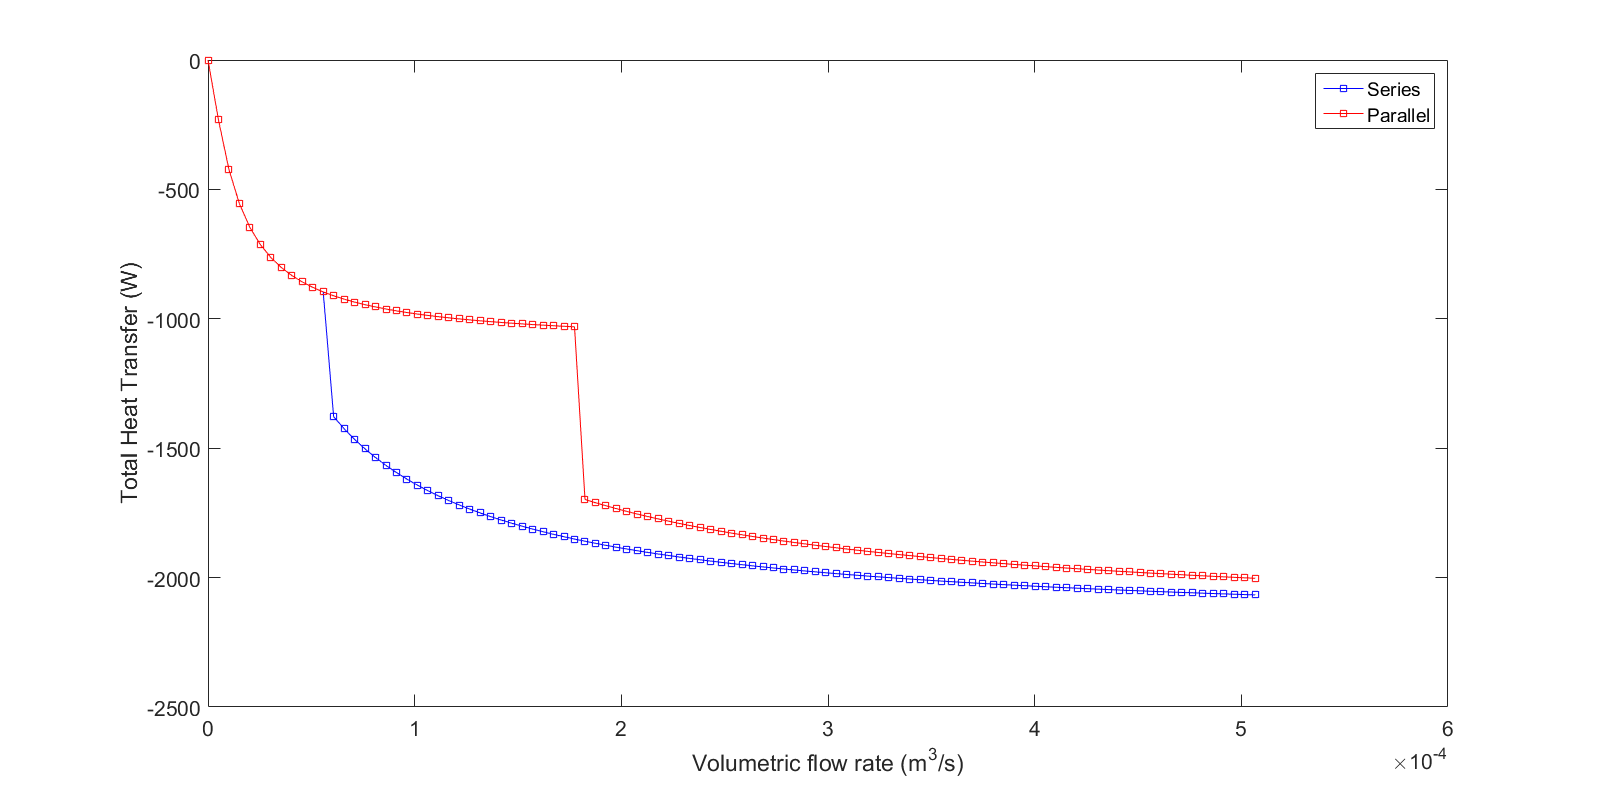
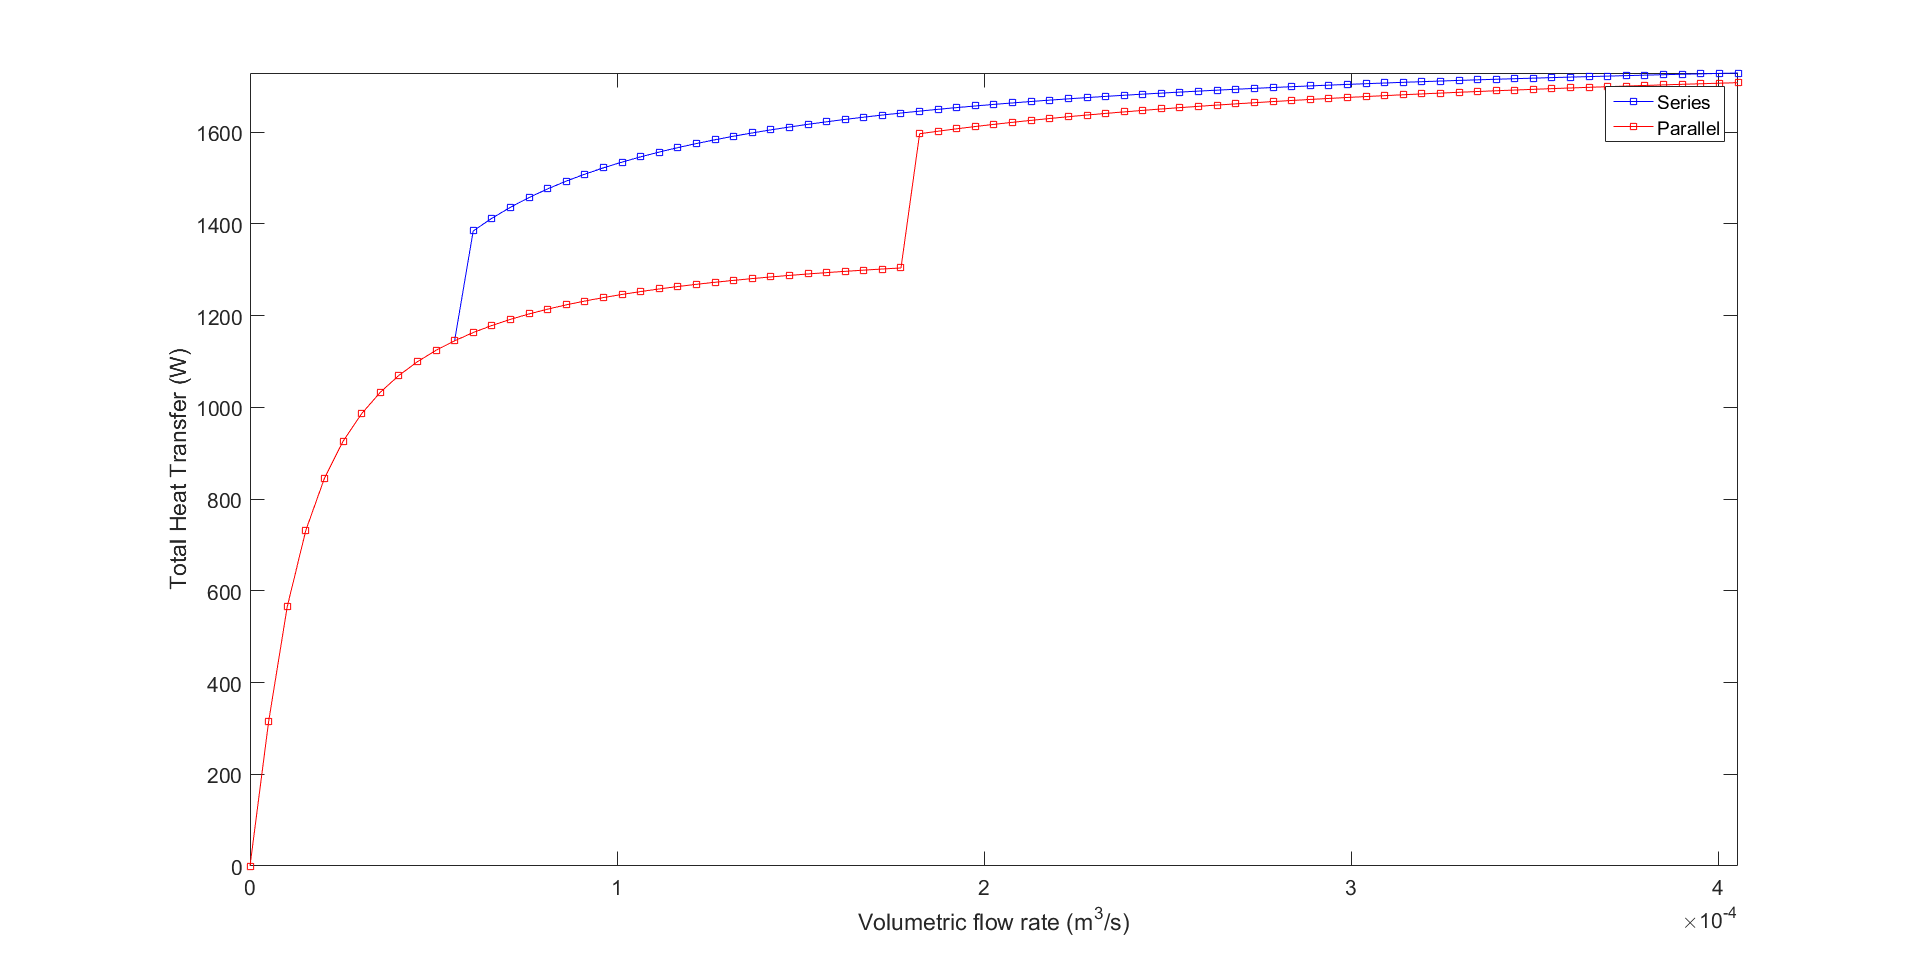
Added - Soil resistance, and put it in heatpump mode

diff --git a/matlab/part_1.m b/matlab/part_1.m
@@ -3,14 +3,14 @@ close all
 clear
 
 
-Tin = 23; % degree c
+Tin = -3; % degree c
 Tinf = 12; % degree c
 %d = 0.0381; % meters (1.5 inch)
 d = 0.0254; % meters (1 inch)
 t = 0.0068834; % meters (thickness for 1.5 inch)
-L = 30; % meters
+L = 60; % meters
 
-vel = [0:0.01:1]; % m/s
+vel = [0:0.01:0.8]; % m/s
 Q_flow = vel.*1/4.*pi.*d^2; % m^3/s
 count = 1;
 Touts = [];
@@ -33,6 +33,7 @@ end
 figure(1)
 plot(Q_flow,Touts, '-bs')
 hold on
+axis tight
 plot(Q_flow,Toutp, '-rs')
 legend('Series', 'Parallel')
 xlabel('Volumetric flow rate (m^3/s)')
@@ -42,6 +43,7 @@ ylabel(s)
 figure(2)
 plot(Q_flow,Engs, '-bs')
 hold on
+axis tight
 plot(Q_flow,Engp, '-rs')
 legend('Series', 'Parallel')
 xlabel('Volumetric flow rate (m^3/s)')

diff --git a/matlab/calc_outlet.m b/matlab/calc_outlet.m
@@ -7,6 +7,8 @@ rho = 998; % density kg/m^3
 cp = 4200; %J/kgK
 k_water = 0.58; %conduction of water (W/mK)
 k_pipe = 0.461; %conduction of pipe (W/mK)
+k_soil = 1.25; % conduction for 50% wetted sandy soil (W/mk)
+r_soil = 0.3048; % Assume that 1ft away the soil becomes constant temp (m)
 
 Pr = (cp*mu)/k_water; % Prandtl number
 ed = e/d;
@@ -27,7 +29,7 @@ h = Nud*k_water/d;
 As = pi*d*L;
 Ac = 1/4*pi*d^2;
 % Calculate total resistance
-Rtot = 1/(As*h) + log(((d+2*t)/2)/(d/2))/(2*pi*L*k_pipe);
+Rtot = 1/(As*h) + log(((d+2*t)/2)/(d/2))/(2*pi*L*k_pipe) + log(r_soil/((d+2*t)/2))/(2*pi*L*k_soil);
 % Calculate our outlet temp
 Tout = -(Tinf - Tin)*exp(-1/(Q_flow*rho*cp*Rtot)) + Tinf;
 % Calc total energy transfered

diff --git a/matlab/part_2.m b/matlab/part_2.m
@@ -3,14 +3,15 @@ close all
 clear
 
 
-Tin = 23; % degree c
+Tin = -3; % degree c
 Tinf = 12; % degree c
 %d = 0.0381; % meters (1.5 inch)
 d = 0.0254; % meters (1 inch)
 t = 0.0068834; % meters (thickness for 1.5 inch)
-L = 30; % meters
-N = [0:0.1:4.5];
+L = 60; % meters
 
+
+N = [0:0.1:4.5];
 vel = 0.5; % m/s
 Q_flow = vel.*1/4.*pi.*d^2; % m^3/s
 count = 1;
